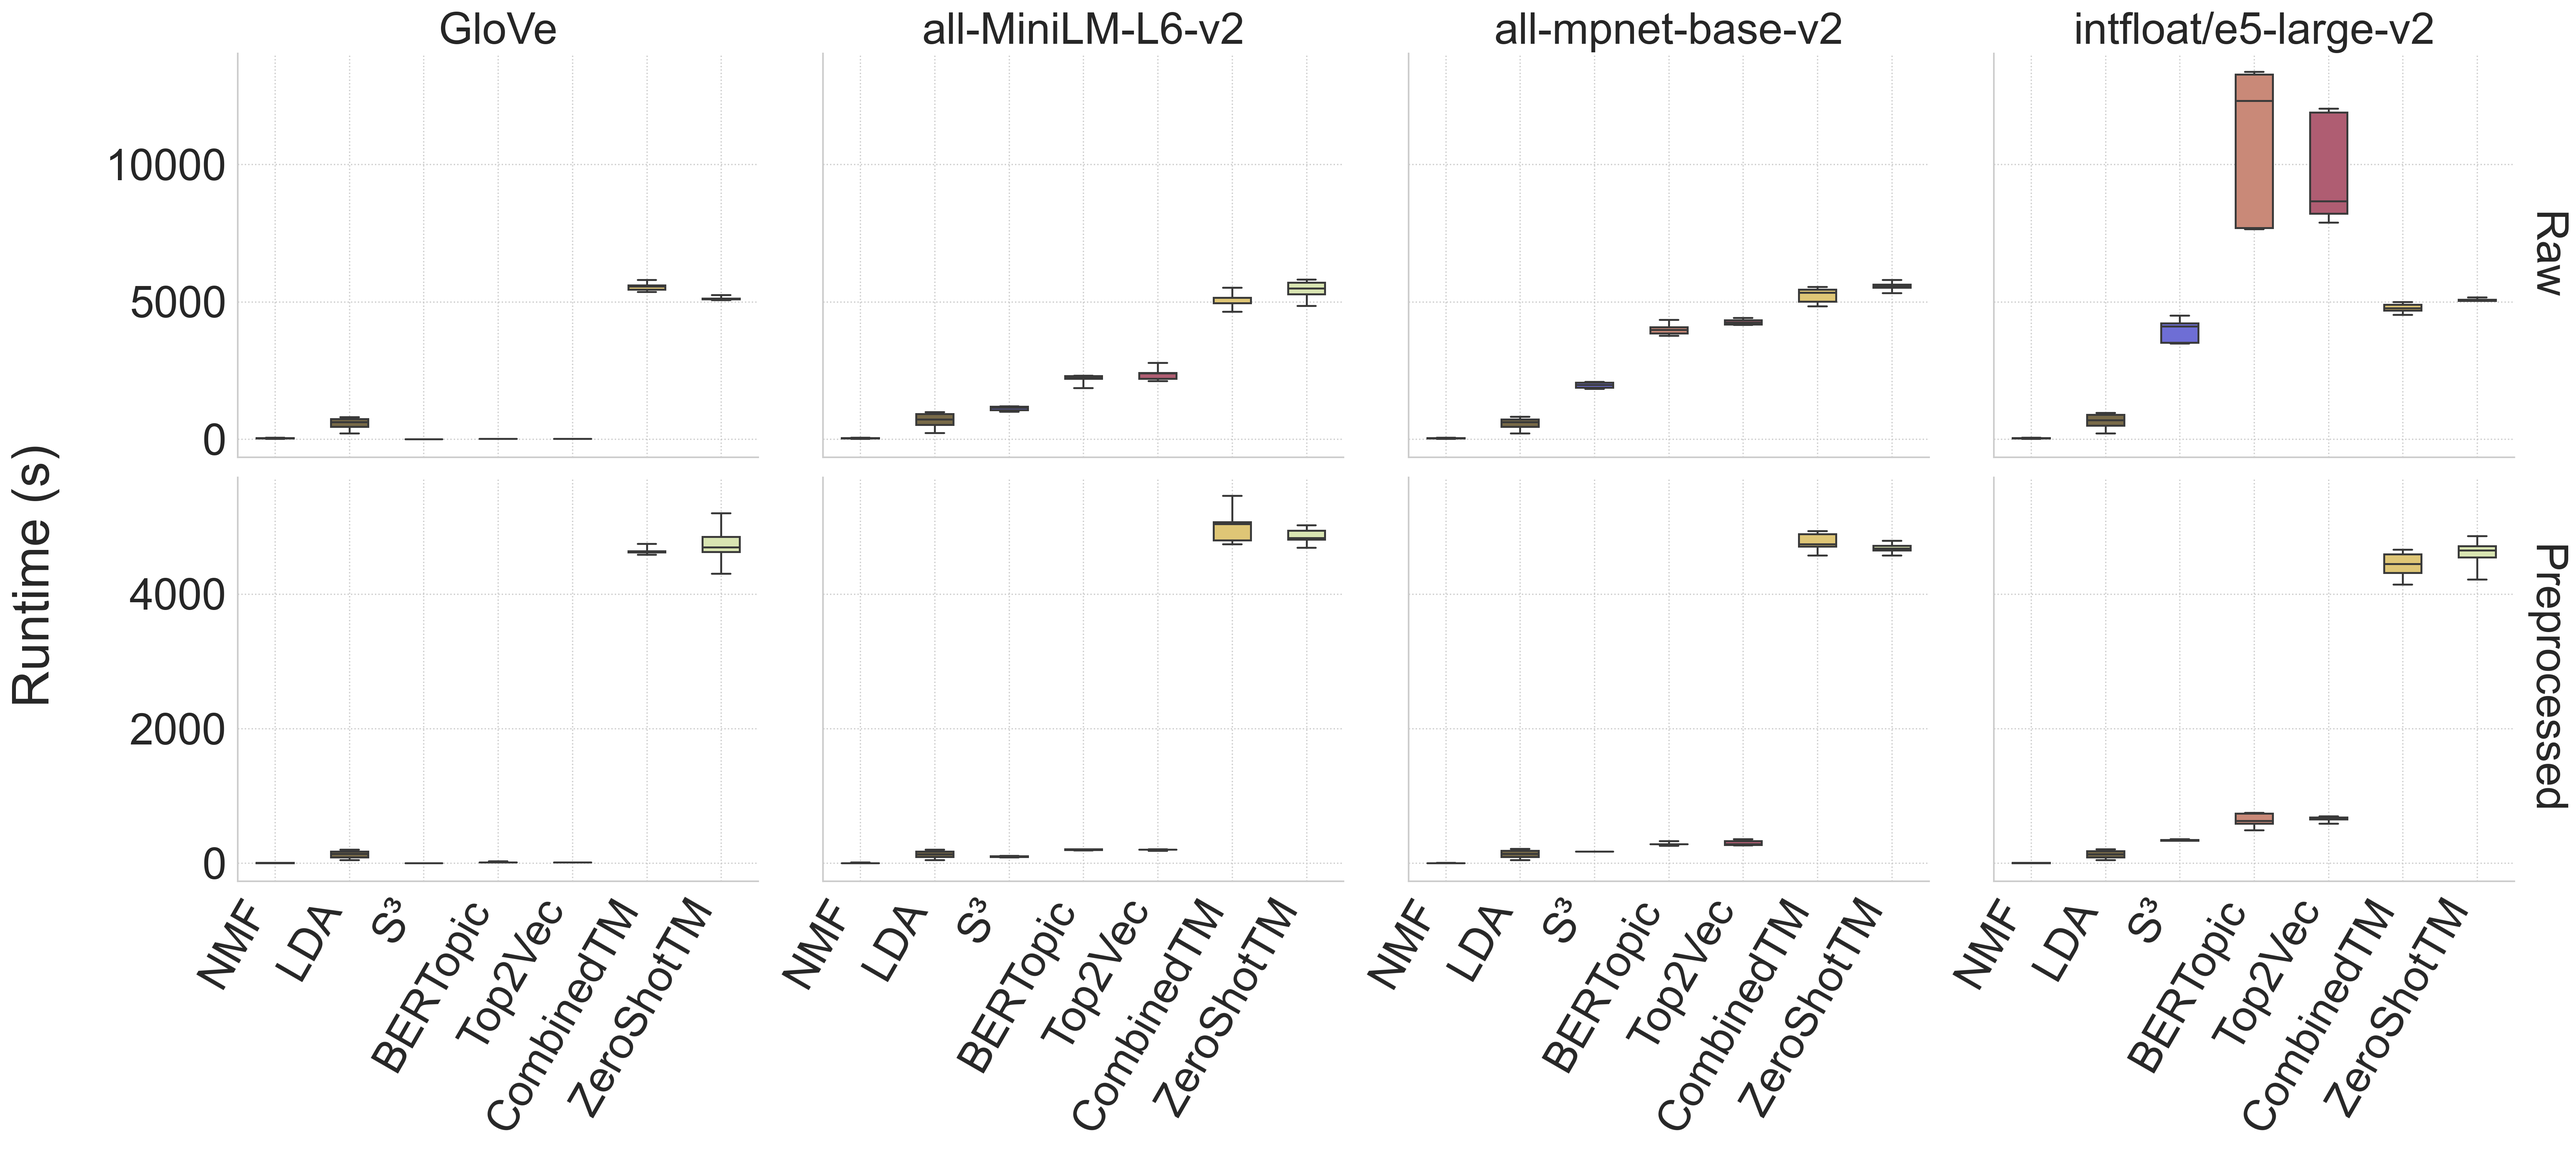
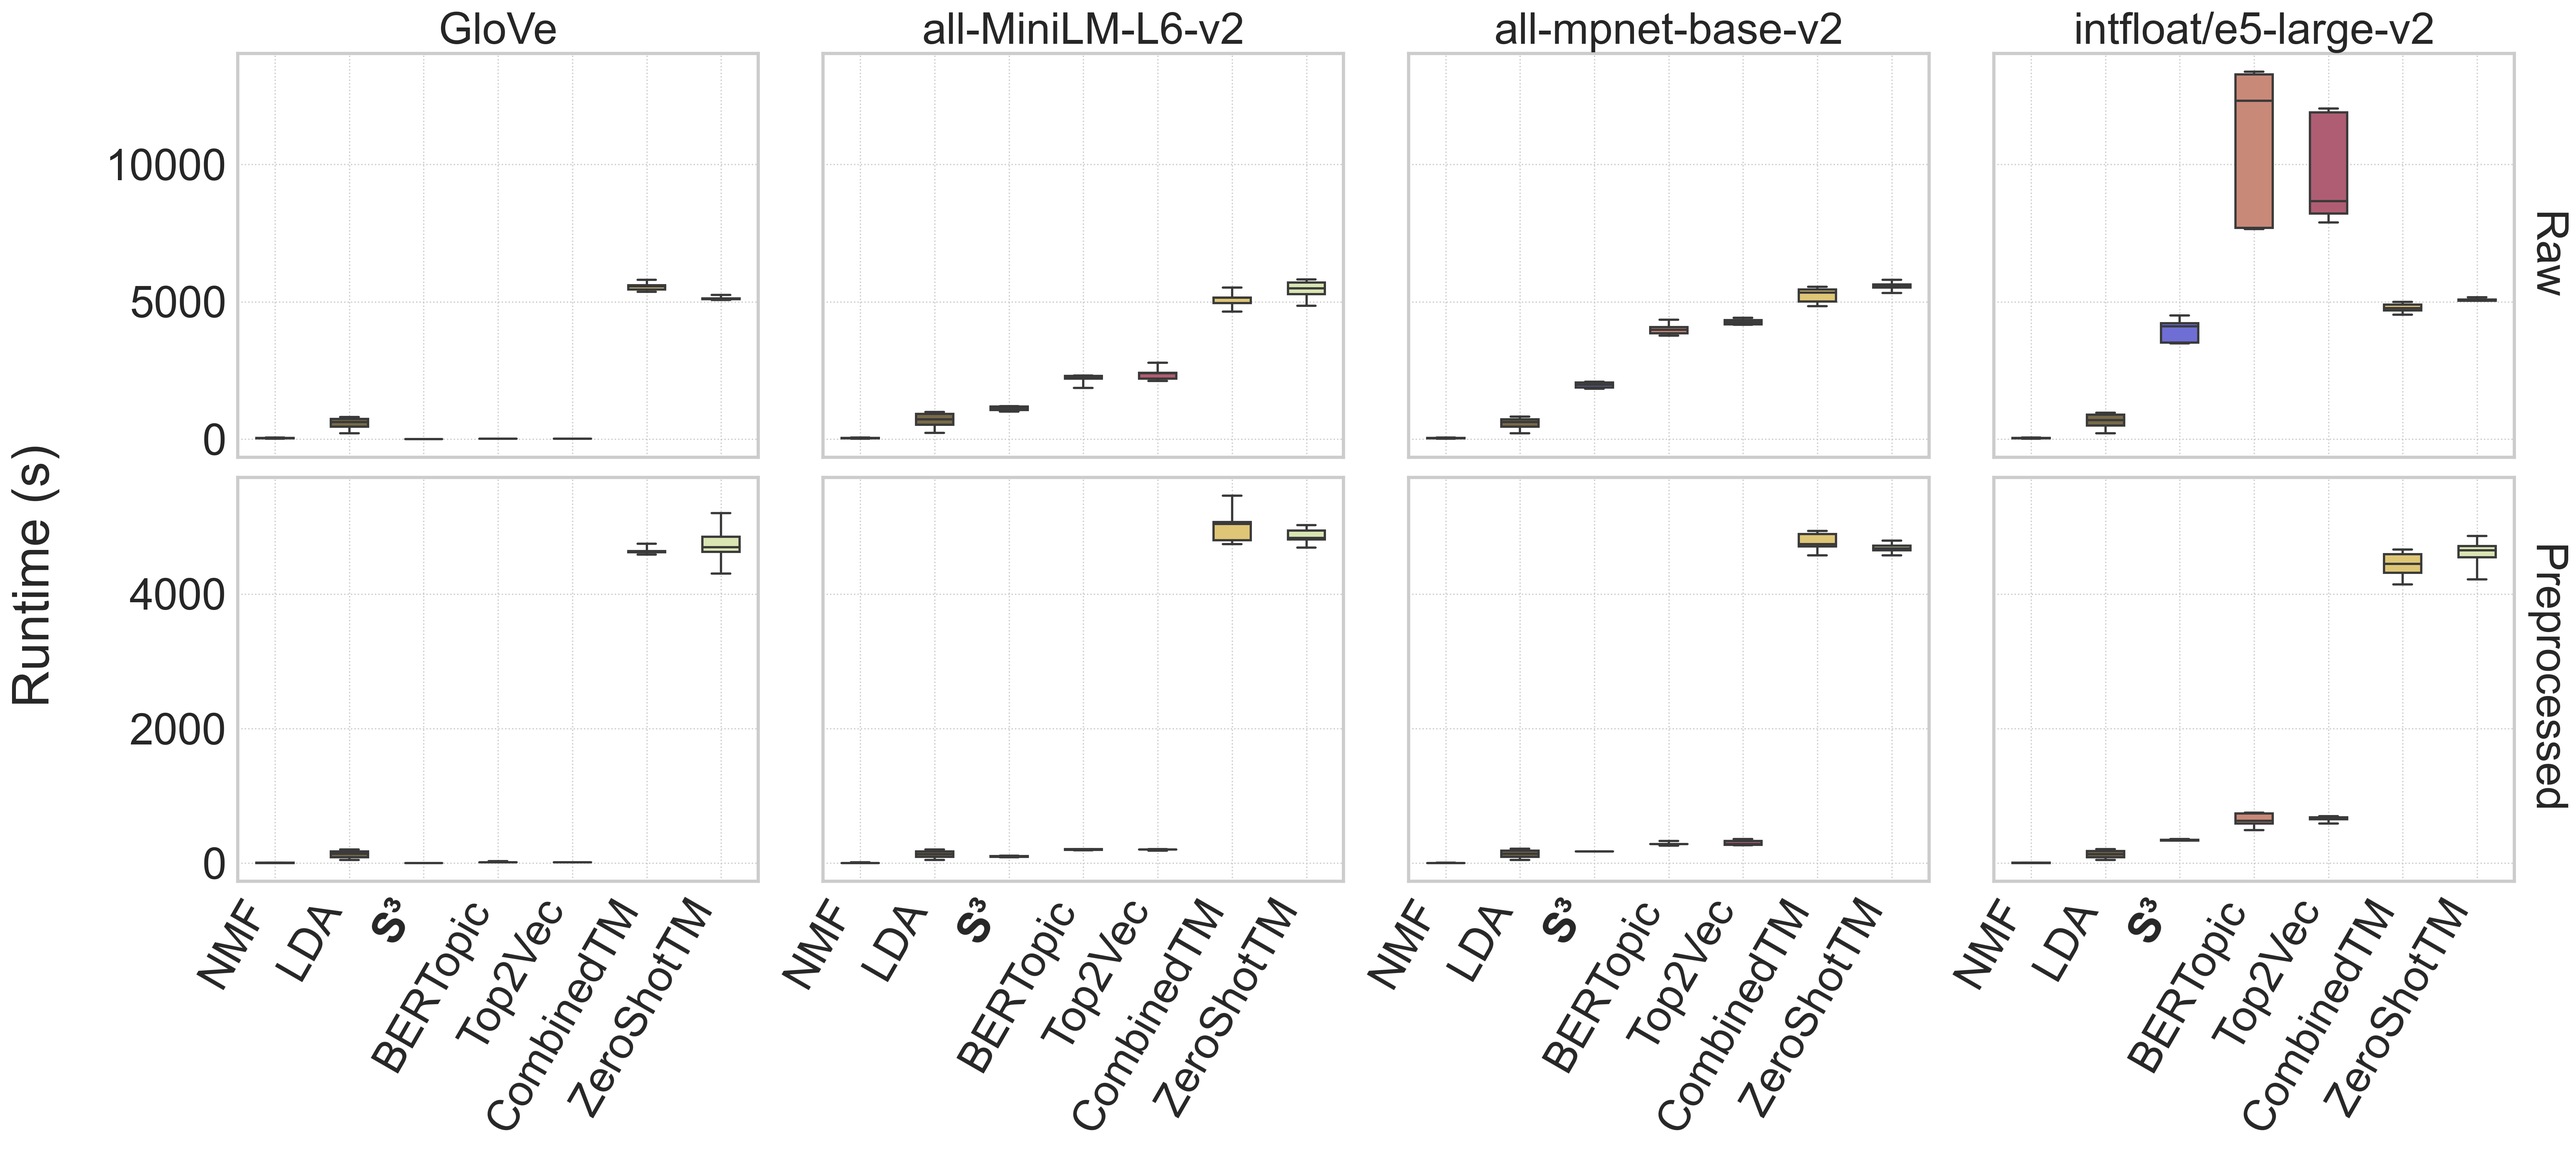
add bold and spines to speed_v1

diff --git a/topic_benchmark/figures_plt.py b/topic_benchmark/figures_plt.py
@@ -269,13 +269,14 @@ def plot_speed(data):
     # x: n topics, y: processing speed, color: encoder
     def fill_facet(df):
 
-        sns.set_style('whitegrid', {"grid.linestyle": ":"})
+        sns.set_style('whitegrid', {"grid.linestyle": ":",})
         fig = sns.catplot(data=df, x='Model', y='Runtime in Seconds', col='Encoder',
                           kind='box', height=5., aspect=1.1, row='Dataset',
                           whis=(0, 100),
-                          width=0.5, linewidth=1.2,
+                          width=0.5, linewidth=1.4,
                           order=MODEL_ORDER,
                           margin_titles=True,
+                          facet_kws={"despine": False},
                           col_order= ['GloVe',
                                      'all-MiniLM-L6-v2',
                                      'all-mpnet-base-v2', 
@@ -289,12 +290,17 @@ def plot_speed(data):
             fig.axes[1,i].set_ylabel('')
             fig.axes[1,i].set_title('')
             fig.axes[1,i].set_xticklabels(fig.axes[1,i].get_xticklabels(), rotation=60, ha='right')
-
         return fig
 
     fig = fill_facet(pd.concat([data_raw, data_pro]))
     for ax in fig.axes.flat:
         ax.grid(True, axis='both')
+        for _,s in ax.spines.items():
+            s.set_linewidth(2)
+        try:
+            ax.get_xticklabels()[2].set_weight("bold")
+        except:
+            pass
     fig.figure.supylabel("Runtime (s)", x=-0.004)
 
     plt.tight_layout()
